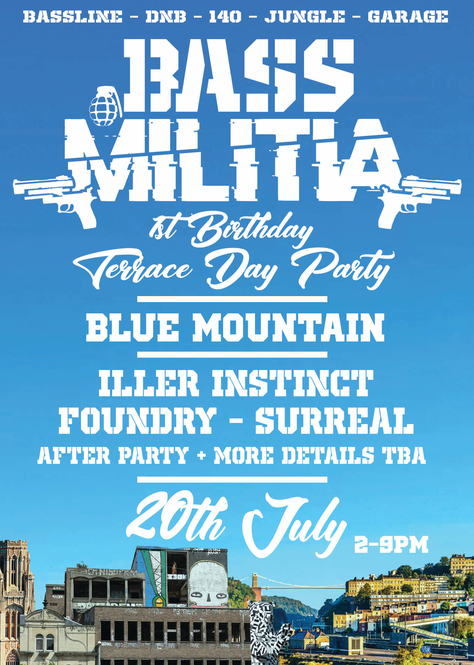
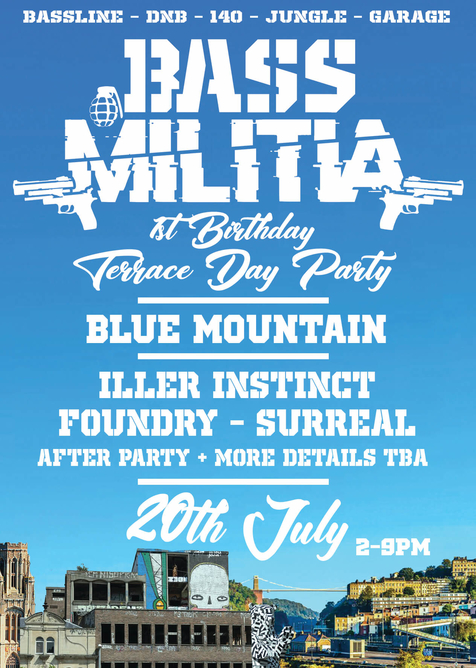
finished resizing event images

diff --git a/README.md b/README.md
@@ -121,8 +121,8 @@ As I was developing the website, the brand continued to create more media throug
 
 - I posted my webpage into the Slack 'Peer Review' channel for feedback from other students. 
 
-
-
+- I ran my website through [GTmetrix](https://gtmetrix.com) and it presented me with speed issues I had not been given on Google Developer Tools. It outlined that some of the images had been resized within the IDE so their native pixel ratio was still far too large, and I could save space by resizing these on top of the compression I had already applied. 
+    ![](https://github.com/samlaubscher/bass-militia-website/blob/master/assets/images/readme-images/gmetrix-1.JPG?raw=true)
 
 
 html testing 
